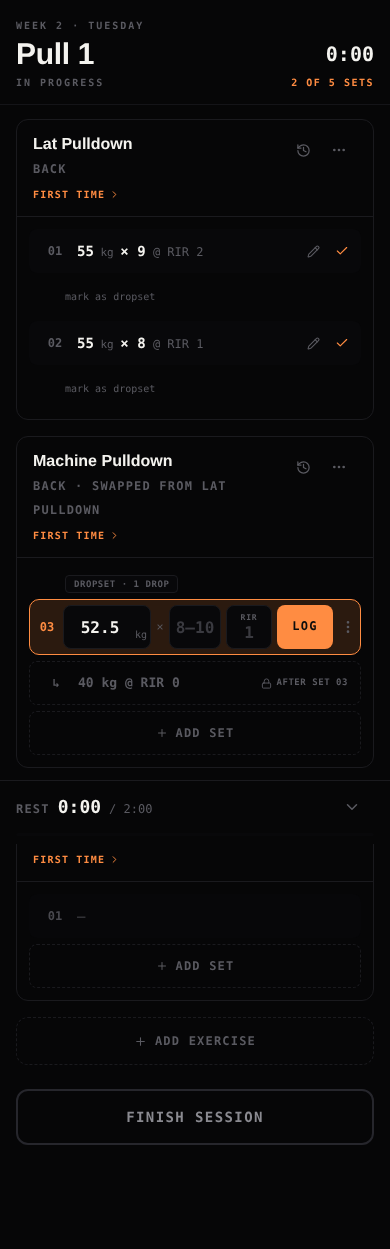
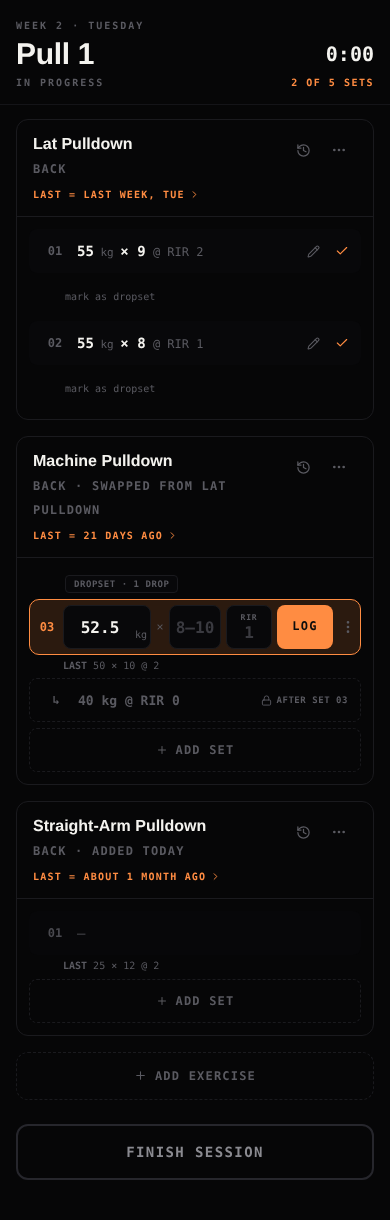
chunk 59 complete: W5 now draws each card's own last-time line as the board does (the swapped card reads the new exercise's session), shot without the pinned rest bar
The W5 board test gives each of the three exercises a reference session, asserts the three LAST = lines and the moved set's own LAST row, and the picture and text
dump are re-shot (light and dark). Two more breaks (the swapped card reading the exercise it left; an added card reading none) fail that test.

Claude-Session: https://claude.ai/code/session_01PKrEwfdPH4RJeSSWYsK4MK

diff --git a/src/features/gym/__fixtures__/w5.html b/src/features/gym/__fixtures__/w5.html
@@ -1,1 +1,1 @@
-<div class="pb-6"><header style="padding: 18px 16px 14px; border-bottom-width: 1px; border-bottom-style: solid; border-bottom-color: var(--border-subtle); display: flex; justify-content: space-between; align-items: flex-end; gap: 12px;"><div class="min-w-0" style="display: flex; flex-direction: column; gap: 6px;"><span style="font-family: var(--font-mono); font-weight: 600; font-size: 10px; letter-spacing: 0.2em; color: var(--text-muted);">WEEK 2 · TUESDAY</span><h1 style="margin: 0px; font-family: var(--font-display); font-weight: 900; font-size: 30px; line-height: 1; letter-spacing: -0.01em; color: var(--text-primary); overflow-wrap: anywhere;">Pull 1</h1><span style="font-family: var(--font-mono); font-weight: 700; font-size: 10px; letter-spacing: 0.2em; color: var(--text-muted);">IN PROGRESS</span></div><div class="flex-shrink-0" style="display: flex; flex-direction: column; align-items: flex-end; gap: 6px;"><span data-workout-clock="true" style="font-family: var(--font-mono); font-weight: 700; font-size: 20px; font-variant-numeric: tabular-nums; color: var(--text-primary);">0:00</span><span data-workout-progress="true" style="font-family: var(--font-mono); font-weight: 600; font-size: 10px; letter-spacing: 0.15em; color: var(--accent);">2 OF 5 SETS</span></div></header><div style="height: 14px;"></div><div class="px-4 space-y-4"><div class="space-y-4"><div class="rounded-xl overflow-hidden" style="border: 1px solid var(--border);"><div class="px-4 pt-3 pb-2 flex items-start justify-between" style="border-bottom: 1px solid var(--border);"><div><div class="flex items-baseline gap-2"><span class="font-black text-base" style="color: var(--text-primary); font-family: var(--font-display);">Lat Pulldown</span></div><span class="text-xs font-bold tracking-widest" style="color: var(--text-muted); font-family: var(--font-mono);">BACK</span><button type="button" data-last-line="true" class="flex items-center gap-1 text-left" style="min-height: 28px; font-family: var(--font-mono); font-weight: 600; font-size: 10px; letter-spacing: 0.12em; color: var(--accent); overflow-wrap: anywhere;">FIRST TIME<svg xmlns="http://www.w3.org/2000/svg" width="11" height="11" viewBox="0 0 24 24" fill="none" stroke="currentColor" stroke-width="2" stroke-linecap="round" stroke-linejoin="round" class="lucide lucide-chevron-right flex-shrink-0" aria-hidden="true"><path d="m9 18 6-6-6-6"></path></svg></button></div><div class="flex-shrink-0 flex items-center"><button aria-label="Exercise history" class="flex items-center justify-center" style="width: 36px; height: 36px; color: var(--text-muted);"><svg xmlns="http://www.w3.org/2000/svg" width="15" height="15" viewBox="0 0 24 24" fill="none" stroke="currentColor" stroke-width="2" stroke-linecap="round" stroke-linejoin="round" class="lucide lucide-history"><path d="M3 12a9 9 0 1 0 9-9 9.75 9.75 0 0 0-6.74 2.74L3 8"></path><path d="M3 3v5h5"></path><path d="M12 7v5l4 2"></path></svg></button><button aria-label="Exercise options" aria-haspopup="dialog" class="flex items-center justify-center" style="width: 36px; height: 36px; color: var(--text-muted);"><svg xmlns="http://www.w3.org/2000/svg" width="16" height="16" viewBox="0 0 24 24" fill="none" stroke="currentColor" stroke-width="2" stroke-linecap="round" stroke-linejoin="round" class="lucide lucide-ellipsis"><circle cx="12" cy="12" r="1"></circle><circle cx="19" cy="12" r="1"></circle><circle cx="5" cy="12" r="1"></circle></svg></button></div></div><div class="px-3 py-3 space-y-1.5"><div style="display: flex; align-items: center; gap: 8px; min-height: 44px; padding: 0px 12px; border-radius: 8px; background-color: var(--surface);" data-row-key="set:set-1" data-row-state="logged"><span class="text-xs font-bold text-center flex-shrink-0" style="width: 28px; color: var(--text-muted); font-family: var(--font-mono);">01</span><span class="flex-1 text-sm font-bold" style="color: var(--text-primary); font-family: var(--font-mono);">55<span style="color: var(--text-muted); font-weight: 400; font-size: 11px;"> kg </span>× 9<span style="color: var(--text-muted); font-weight: 400; font-size: 12px;"> @ RIR 2</span></span><button type="button" class="flex-shrink-0 flex items-center justify-center" style="width: 28px; height: 28px; color: var(--text-muted);" aria-label="Edit set"><svg xmlns="http://www.w3.org/2000/svg" width="13" height="13" viewBox="0 0 24 24" fill="none" stroke="currentColor" stroke-width="2" stroke-linecap="round" stroke-linejoin="round" class="lucide lucide-pencil"><path d="M21.174 6.812a1 1 0 0 0-3.986-3.987L3.842 16.174a2 2 0 0 0-.5.83l-1.321 4.352a.5.5 0 0 0 .623.622l4.353-1.32a2 2 0 0 0 .83-.497z"></path><path d="m15 5 4 4"></path></svg></button><svg xmlns="http://www.w3.org/2000/svg" width="14" height="14" viewBox="0 0 24 24" fill="none" stroke="currentColor" stroke-width="2" stroke-linecap="round" stroke-linejoin="round" class="lucide lucide-check" style="color: var(--accent);"><path d="M20 6 9 17l-5-5"></path></svg></div><button type="button" class="flex items-center text-xs font-medium" style="min-height: 36px; margin-left: 36px; color: var(--text-muted); font-family: var(--font-mono); font-size: 10px;">mark as dropset</button><div style="display: flex; align-items: center; gap: 8px; min-height: 44px; padding: 0px 12px; border-radius: 8px; background-color: var(--surface);" data-row-key="set:set-2" data-row-state="logged"><span class="text-xs font-bold text-center flex-shrink-0" style="width: 28px; color: var(--text-muted); font-family: var(--font-mono);">02</span><span class="flex-1 text-sm font-bold" style="color: var(--text-primary); font-family: var(--font-mono);">55<span style="color: var(--text-muted); font-weight: 400; font-size: 11px;"> kg </span>× 8<span style="color: var(--text-muted); font-weight: 400; font-size: 12px;"> @ RIR 1</span></span><button type="button" class="flex-shrink-0 flex items-center justify-center" style="width: 28px; height: 28px; color: var(--text-muted);" aria-label="Edit set"><svg xmlns="http://www.w3.org/2000/svg" width="13" height="13" viewBox="0 0 24 24" fill="none" stroke="currentColor" stroke-width="2" stroke-linecap="round" stroke-linejoin="round" class="lucide lucide-pencil"><path d="M21.174 6.812a1 1 0 0 0-3.986-3.987L3.842 16.174a2 2 0 0 0-.5.83l-1.321 4.352a.5.5 0 0 0 .623.622l4.353-1.32a2 2 0 0 0 .83-.497z"></path><path d="m15 5 4 4"></path></svg></button><svg xmlns="http://www.w3.org/2000/svg" width="14" height="14" viewBox="0 0 24 24" fill="none" stroke="currentColor" stroke-width="2" stroke-linecap="round" stroke-linejoin="round" class="lucide lucide-check" style="color: var(--accent);"><path d="M20 6 9 17l-5-5"></path></svg></div><button type="button" class="flex items-center text-xs font-medium" style="min-height: 36px; margin-left: 36px; color: var(--text-muted); font-family: var(--font-mono); font-size: 10px;">mark as dropset</button></div></div><div class="rounded-xl overflow-hidden" style="border: 1px solid var(--border);"><div class="px-4 pt-3 pb-2 flex items-start justify-between" style="border-bottom: 1px solid var(--border);"><div><div class="flex items-baseline gap-2"><span class="font-black text-base" style="color: var(--text-primary); font-family: var(--font-display);">Machine Pulldown</span></div><span class="text-xs font-bold tracking-widest" style="color: var(--text-muted); font-family: var(--font-mono);">BACK · SWAPPED FROM LAT PULLDOWN</span><button type="button" data-last-line="true" class="flex items-center gap-1 text-left" style="min-height: 28px; font-family: var(--font-mono); font-weight: 600; font-size: 10px; letter-spacing: 0.12em; color: var(--accent); overflow-wrap: anywhere;">FIRST TIME<svg xmlns="http://www.w3.org/2000/svg" width="11" height="11" viewBox="0 0 24 24" fill="none" stroke="currentColor" stroke-width="2" stroke-linecap="round" stroke-linejoin="round" class="lucide lucide-chevron-right flex-shrink-0" aria-hidden="true"><path d="m9 18 6-6-6-6"></path></svg></button></div><div class="flex-shrink-0 flex items-center"><button aria-label="Exercise history" class="flex items-center justify-center" style="width: 36px; height: 36px; color: var(--text-muted);"><svg xmlns="http://www.w3.org/2000/svg" width="15" height="15" viewBox="0 0 24 24" fill="none" stroke="currentColor" stroke-width="2" stroke-linecap="round" stroke-linejoin="round" class="lucide lucide-history"><path d="M3 12a9 9 0 1 0 9-9 9.75 9.75 0 0 0-6.74 2.74L3 8"></path><path d="M3 3v5h5"></path><path d="M12 7v5l4 2"></path></svg></button><button aria-label="Exercise options" aria-haspopup="dialog" class="flex items-center justify-center" style="width: 36px; height: 36px; color: var(--text-muted);"><svg xmlns="http://www.w3.org/2000/svg" width="16" height="16" viewBox="0 0 24 24" fill="none" stroke="currentColor" stroke-width="2" stroke-linecap="round" stroke-linejoin="round" class="lucide lucide-ellipsis"><circle cx="12" cy="12" r="1"></circle><circle cx="19" cy="12" r="1"></circle><circle cx="5" cy="12" r="1"></circle></svg></button></div></div><div class="px-3 py-3 space-y-1.5"><span class="inline-block text-xs font-bold px-2 py-0.5 rounded" style="margin-left: 36px; background-color: var(--surface); border: 1px solid var(--border); color: var(--text-muted); font-family: var(--font-mono); font-size: 9px; letter-spacing: 0.06em;">DROPSET · 1 DROP</span><div class="space-y-1" data-current-set="true" data-row-key="added:pe-1:replacement:65b4eadb-3e57-4813-963a-60c46827ecda"><div class="flex items-center" style="gap: 5px; padding: 5px 2px 5px 6px; border-radius: 10px; background-color: var(--accent-muted); border-width: 1px; border-style: solid; border-color: var(--accent);"><span class="text-xs font-bold text-center flex-shrink-0" style="width: 22px; color: var(--accent); font-family: var(--font-mono);">03</span><div class="relative" style="flex: 1 1 76px; min-width: 60px;"><input inputmode="decimal" aria-label="Weight" class="w-full" style="height: 44px; background-color: var(--surface); color: var(--text-primary); border-width: 1px; border-style: solid; border-color: var(--border); border-radius: 8px; font-family: var(--font-mono); font-weight: 700; font-size: 16px; text-align: center; padding-left: 6px; padding-right: 20px;" type="text" value="52.5"><button type="button" class="absolute text-xs" style="right: 4px; bottom: 8px; color: var(--text-muted); font-family: var(--font-mono); font-weight: 400; font-size: 10px;" aria-label="Log this set in lbs">kg</button></div><span class="flex-shrink-0 text-center" style="width: 8px; color: var(--text-muted); font-size: 12px;">×</span><input inputmode="numeric" aria-label="Reps" placeholder="8–10" style="height: 44px; background-color: var(--surface); color: var(--text-primary); border-width: 1px; border-style: solid; border-color: var(--border); border-radius: 8px; font-family: var(--font-mono); font-weight: 700; font-size: 16px; text-align: center; width: 52px; flex-shrink: 0;" type="text" value=""><label class="flex flex-col items-center justify-center flex-shrink-0" style="height: 44px; background-color: var(--surface); color: var(--text-primary); border-width: 1px; border-style: solid; border-color: var(--border); border-radius: 8px; font-family: var(--font-mono); font-weight: 700; font-size: 14px; text-align: center; width: 46px; padding-top: 3px;"><span style="font-size: 8px; letter-spacing: 0.1em; color: var(--text-muted); line-height: 1;">RIR</span><input inputmode="numeric" aria-label="RIR" placeholder="1" class="w-full" style="background: transparent; border: medium; text-align: center; font-family: var(--font-mono); font-weight: 700; font-size: 16px; color: var(--text-primary); height: 22px; padding: 0px;" type="text" value=""></label><button type="button" class="rounded-lg font-black text-sm whitespace-nowrap" style="flex: 0 0 auto; height: 44px; padding: 0px 8px; min-width: 56px; background-color: var(--accent); color: var(--on-accent); font-family: var(--font-mono); font-size: 12px; letter-spacing: 0.1em;">LOG</button><button type="button" class="flex-shrink-0 flex items-center justify-center" style="width: 20px; height: 44px; color: var(--text-muted);" aria-label="Set options" aria-expanded="false"><svg xmlns="http://www.w3.org/2000/svg" width="16" height="16" viewBox="0 0 24 24" fill="none" stroke="currentColor" stroke-width="2" stroke-linecap="round" stroke-linejoin="round" class="lucide lucide-ellipsis-vertical"><circle cx="12" cy="12" r="1"></circle><circle cx="12" cy="5" r="1"></circle><circle cx="12" cy="19" r="1"></circle></svg></button></div></div><div style="display: flex; align-items: center; gap: 8px; min-height: 44px; padding: 0px 12px; border-radius: 8px; border-width: 1px; border-style: dashed; border-color: var(--border);" data-row-key="added:pe-1:replacement:65b4eadb-3e57-4813-963a-60c46827ecda:stage:1" data-row-state="locked"><span class="text-xs font-bold text-center flex-shrink-0" style="width: 28px; color: var(--text-muted); font-family: var(--font-mono);">↳</span><span class="flex-1 font-bold" style="min-width: 0px; color: var(--text-muted); font-family: var(--font-mono); font-size: 13px;">40 kg @ RIR 0</span><span class="flex items-center gap-1 flex-shrink-0 font-bold whitespace-nowrap" style="color: var(--text-muted); font-family: var(--font-mono); font-size: 9px; letter-spacing: 0.06em;"><svg xmlns="http://www.w3.org/2000/svg" width="11" height="11" viewBox="0 0 24 24" fill="none" stroke="currentColor" stroke-width="2" stroke-linecap="round" stroke-linejoin="round" class="lucide lucide-lock"><rect width="18" height="11" x="3" y="11" rx="2" ry="2"></rect><path d="M7 11V7a5 5 0 0 1 10 0v4"></path></svg>AFTER SET 03</span></div><button class="w-full flex items-center justify-center gap-2 rounded-lg text-xs font-bold tracking-widest" style="min-height: 44px; border: 1px dashed var(--border); color: var(--text-muted); font-family: var(--font-mono);"><svg xmlns="http://www.w3.org/2000/svg" width="12" height="12" viewBox="0 0 24 24" fill="none" stroke="currentColor" stroke-width="2" stroke-linecap="round" stroke-linejoin="round" class="lucide lucide-plus"><path d="M5 12h14"></path><path d="M12 5v14"></path></svg>ADD SET</button></div></div></div><div class="rounded-xl overflow-hidden" style="border: 1px solid var(--border);"><div class="px-4 pt-3 pb-2 flex items-start justify-between" style="border-bottom: 1px solid var(--border);"><div><div class="flex items-baseline gap-2"><span class="font-black text-base" style="color: var(--text-primary); font-family: var(--font-display);">Straight-Arm Pulldown</span></div><span class="text-xs font-bold tracking-widest" style="color: var(--text-muted); font-family: var(--font-mono);">BACK · ADDED TODAY</span><button type="button" data-last-line="true" class="flex items-center gap-1 text-left" style="min-height: 28px; font-family: var(--font-mono); font-weight: 600; font-size: 10px; letter-spacing: 0.12em; color: var(--accent); overflow-wrap: anywhere;">FIRST TIME<svg xmlns="http://www.w3.org/2000/svg" width="11" height="11" viewBox="0 0 24 24" fill="none" stroke="currentColor" stroke-width="2" stroke-linecap="round" stroke-linejoin="round" class="lucide lucide-chevron-right flex-shrink-0" aria-hidden="true"><path d="m9 18 6-6-6-6"></path></svg></button></div><div class="flex-shrink-0 flex items-center"><button aria-label="Exercise history" class="flex items-center justify-center" style="width: 36px; height: 36px; color: var(--text-muted);"><svg xmlns="http://www.w3.org/2000/svg" width="15" height="15" viewBox="0 0 24 24" fill="none" stroke="currentColor" stroke-width="2" stroke-linecap="round" stroke-linejoin="round" class="lucide lucide-history"><path d="M3 12a9 9 0 1 0 9-9 9.75 9.75 0 0 0-6.74 2.74L3 8"></path><path d="M3 3v5h5"></path><path d="M12 7v5l4 2"></path></svg></button><button aria-label="Exercise options" aria-haspopup="dialog" class="flex items-center justify-center" style="width: 36px; height: 36px; color: var(--text-muted);"><svg xmlns="http://www.w3.org/2000/svg" width="16" height="16" viewBox="0 0 24 24" fill="none" stroke="currentColor" stroke-width="2" stroke-linecap="round" stroke-linejoin="round" class="lucide lucide-ellipsis"><circle cx="12" cy="12" r="1"></circle><circle cx="19" cy="12" r="1"></circle><circle cx="5" cy="12" r="1"></circle></svg></button></div></div><div class="px-3 py-3 space-y-1.5"><div class="space-y-1" data-row-key="added:extra-ex-straight:3c4e5071-d0af-4e3f-b7eb-1fc4defd55a3" data-row-state="upcoming"><div style="display: flex; align-items: center; gap: 8px; min-height: 44px; padding: 0px 12px; border-radius: 8px; background-color: var(--surface); opacity: 0.8;"><span class="text-xs font-bold text-center flex-shrink-0" style="width: 28px; color: var(--text-muted); font-family: var(--font-mono);">01</span><span class="flex-1 text-sm" style="color: var(--text-muted); font-family: var(--font-mono);">—</span></div></div><button class="w-full flex items-center justify-center gap-2 rounded-lg text-xs font-bold tracking-widest" style="min-height: 44px; border: 1px dashed var(--border); color: var(--text-muted); font-family: var(--font-mono);"><svg xmlns="http://www.w3.org/2000/svg" width="12" height="12" viewBox="0 0 24 24" fill="none" stroke="currentColor" stroke-width="2" stroke-linecap="round" stroke-linejoin="round" class="lucide lucide-plus"><path d="M5 12h14"></path><path d="M12 5v14"></path></svg>ADD SET</button></div></div></div><div class="px-4 mt-4"><button class="w-full flex items-center justify-center gap-2 rounded-xl text-xs font-bold tracking-widest" style="min-height: 48px; border: 1px dashed var(--border); color: var(--text-muted); font-family: var(--font-mono);"><svg xmlns="http://www.w3.org/2000/svg" width="13" height="13" viewBox="0 0 24 24" fill="none" stroke="currentColor" stroke-width="2" stroke-linecap="round" stroke-linejoin="round" class="lucide lucide-plus"><path d="M5 12h14"></path><path d="M12 5v14"></path></svg>ADD EXERCISE</button></div><div class="px-4 mt-6 mb-4"><button class="w-full py-4 rounded-xl font-black tracking-widest text-sm" style="border: 2px solid var(--border-strong); color: var(--text-secondary); font-family: var(--font-mono);">FINISH SESSION</button></div><div data-rest-bar="true" class="sticky bottom-0" style="z-index: 20; background-color: var(--base); border-top: 1px solid var(--border); padding-bottom: 2px;"><div class="flex items-center gap-3 px-4" style="min-height: 52px;"><div class="flex items-baseline gap-2 min-w-0"><span class="text-xs font-bold tracking-widest" style="color: var(--text-muted); font-family: var(--font-mono);">REST</span><span class="text-lg font-black tabular-nums" style="color: var(--text-primary); font-family: var(--font-mono);">0:00</span><span class="text-xs tabular-nums" style="color: var(--text-muted); font-family: var(--font-mono);">/ 2:00</span></div><div class="flex-1"></div><button type="button" class="flex items-center justify-center" style="min-width: 44px; min-height: 44px; color: var(--text-muted);" aria-label="Hide rest timer" aria-expanded="true"><svg xmlns="http://www.w3.org/2000/svg" width="18" height="18" viewBox="0 0 24 24" fill="none" stroke="currentColor" stroke-width="2" stroke-linecap="round" stroke-linejoin="round" class="lucide lucide-chevron-down"><path d="m6 9 6 6 6-6"></path></svg></button></div><div style="height: 3px; margin: 0px 16px 6px; border-radius: 2px; background-color: var(--surface);"><div class="transition-all duration-1000" style="height: 3px; border-radius: 2px; width: 0%; background-color: var(--accent);"></div></div></div></div>
+<div class="pb-6"><header style="padding: 18px 16px 14px; border-bottom-width: 1px; border-bottom-style: solid; border-bottom-color: var(--border-subtle); display: flex; justify-content: space-between; align-items: flex-end; gap: 12px;"><div class="min-w-0" style="display: flex; flex-direction: column; gap: 6px;"><span style="font-family: var(--font-mono); font-weight: 600; font-size: 10px; letter-spacing: 0.2em; color: var(--text-muted);">WEEK 2 · TUESDAY</span><h1 style="margin: 0px; font-family: var(--font-display); font-weight: 900; font-size: 30px; line-height: 1; letter-spacing: -0.01em; color: var(--text-primary); overflow-wrap: anywhere;">Pull 1</h1><span style="font-family: var(--font-mono); font-weight: 700; font-size: 10px; letter-spacing: 0.2em; color: var(--text-muted);">IN PROGRESS</span></div><div class="flex-shrink-0" style="display: flex; flex-direction: column; align-items: flex-end; gap: 6px;"><span data-workout-clock="true" style="font-family: var(--font-mono); font-weight: 700; font-size: 20px; font-variant-numeric: tabular-nums; color: var(--text-primary);">0:00</span><span data-workout-progress="true" style="font-family: var(--font-mono); font-weight: 600; font-size: 10px; letter-spacing: 0.15em; color: var(--accent);">2 OF 5 SETS</span></div></header><div style="height: 14px;"></div><div class="px-4 space-y-4"><div class="space-y-4"><div class="rounded-xl overflow-hidden" style="border: 1px solid var(--border);"><div class="px-4 pt-3 pb-2 flex items-start justify-between" style="border-bottom: 1px solid var(--border);"><div><div class="flex items-baseline gap-2"><span class="font-black text-base" style="color: var(--text-primary); font-family: var(--font-display);">Lat Pulldown</span></div><span class="text-xs font-bold tracking-widest" style="color: var(--text-muted); font-family: var(--font-mono);">BACK</span><button type="button" data-last-line="true" class="flex items-center gap-1 text-left" style="min-height: 28px; font-family: var(--font-mono); font-weight: 600; font-size: 10px; letter-spacing: 0.12em; color: var(--accent); overflow-wrap: anywhere;">LAST = LAST WEEK, TUE<svg xmlns="http://www.w3.org/2000/svg" width="11" height="11" viewBox="0 0 24 24" fill="none" stroke="currentColor" stroke-width="2" stroke-linecap="round" stroke-linejoin="round" class="lucide lucide-chevron-right flex-shrink-0" aria-hidden="true"><path d="m9 18 6-6-6-6"></path></svg></button></div><div class="flex-shrink-0 flex items-center"><button aria-label="Exercise history" class="flex items-center justify-center" style="width: 36px; height: 36px; color: var(--text-muted);"><svg xmlns="http://www.w3.org/2000/svg" width="15" height="15" viewBox="0 0 24 24" fill="none" stroke="currentColor" stroke-width="2" stroke-linecap="round" stroke-linejoin="round" class="lucide lucide-history"><path d="M3 12a9 9 0 1 0 9-9 9.75 9.75 0 0 0-6.74 2.74L3 8"></path><path d="M3 3v5h5"></path><path d="M12 7v5l4 2"></path></svg></button><button aria-label="Exercise options" aria-haspopup="dialog" class="flex items-center justify-center" style="width: 36px; height: 36px; color: var(--text-muted);"><svg xmlns="http://www.w3.org/2000/svg" width="16" height="16" viewBox="0 0 24 24" fill="none" stroke="currentColor" stroke-width="2" stroke-linecap="round" stroke-linejoin="round" class="lucide lucide-ellipsis"><circle cx="12" cy="12" r="1"></circle><circle cx="19" cy="12" r="1"></circle><circle cx="5" cy="12" r="1"></circle></svg></button></div></div><div class="px-3 py-3 space-y-1.5"><div style="display: flex; align-items: center; gap: 8px; min-height: 44px; padding: 0px 12px; border-radius: 8px; background-color: var(--surface);" data-row-key="set:set-1" data-row-state="logged"><span class="text-xs font-bold text-center flex-shrink-0" style="width: 28px; color: var(--text-muted); font-family: var(--font-mono);">01</span><span class="flex-1 text-sm font-bold" style="color: var(--text-primary); font-family: var(--font-mono);">55<span style="color: var(--text-muted); font-weight: 400; font-size: 11px;"> kg </span>× 9<span style="color: var(--text-muted); font-weight: 400; font-size: 12px;"> @ RIR 2</span></span><button type="button" class="flex-shrink-0 flex items-center justify-center" style="width: 28px; height: 28px; color: var(--text-muted);" aria-label="Edit set"><svg xmlns="http://www.w3.org/2000/svg" width="13" height="13" viewBox="0 0 24 24" fill="none" stroke="currentColor" stroke-width="2" stroke-linecap="round" stroke-linejoin="round" class="lucide lucide-pencil"><path d="M21.174 6.812a1 1 0 0 0-3.986-3.987L3.842 16.174a2 2 0 0 0-.5.83l-1.321 4.352a.5.5 0 0 0 .623.622l4.353-1.32a2 2 0 0 0 .83-.497z"></path><path d="m15 5 4 4"></path></svg></button><svg xmlns="http://www.w3.org/2000/svg" width="14" height="14" viewBox="0 0 24 24" fill="none" stroke="currentColor" stroke-width="2" stroke-linecap="round" stroke-linejoin="round" class="lucide lucide-check" style="color: var(--accent);"><path d="M20 6 9 17l-5-5"></path></svg></div><button type="button" class="flex items-center text-xs font-medium" style="min-height: 36px; margin-left: 36px; color: var(--text-muted); font-family: var(--font-mono); font-size: 10px;">mark as dropset</button><div style="display: flex; align-items: center; gap: 8px; min-height: 44px; padding: 0px 12px; border-radius: 8px; background-color: var(--surface);" data-row-key="set:set-2" data-row-state="logged"><span class="text-xs font-bold text-center flex-shrink-0" style="width: 28px; color: var(--text-muted); font-family: var(--font-mono);">02</span><span class="flex-1 text-sm font-bold" style="color: var(--text-primary); font-family: var(--font-mono);">55<span style="color: var(--text-muted); font-weight: 400; font-size: 11px;"> kg </span>× 8<span style="color: var(--text-muted); font-weight: 400; font-size: 12px;"> @ RIR 1</span></span><button type="button" class="flex-shrink-0 flex items-center justify-center" style="width: 28px; height: 28px; color: var(--text-muted);" aria-label="Edit set"><svg xmlns="http://www.w3.org/2000/svg" width="13" height="13" viewBox="0 0 24 24" fill="none" stroke="currentColor" stroke-width="2" stroke-linecap="round" stroke-linejoin="round" class="lucide lucide-pencil"><path d="M21.174 6.812a1 1 0 0 0-3.986-3.987L3.842 16.174a2 2 0 0 0-.5.83l-1.321 4.352a.5.5 0 0 0 .623.622l4.353-1.32a2 2 0 0 0 .83-.497z"></path><path d="m15 5 4 4"></path></svg></button><svg xmlns="http://www.w3.org/2000/svg" width="14" height="14" viewBox="0 0 24 24" fill="none" stroke="currentColor" stroke-width="2" stroke-linecap="round" stroke-linejoin="round" class="lucide lucide-check" style="color: var(--accent);"><path d="M20 6 9 17l-5-5"></path></svg></div><button type="button" class="flex items-center text-xs font-medium" style="min-height: 36px; margin-left: 36px; color: var(--text-muted); font-family: var(--font-mono); font-size: 10px;">mark as dropset</button></div></div><div class="rounded-xl overflow-hidden" style="border: 1px solid var(--border);"><div class="px-4 pt-3 pb-2 flex items-start justify-between" style="border-bottom: 1px solid var(--border);"><div><div class="flex items-baseline gap-2"><span class="font-black text-base" style="color: var(--text-primary); font-family: var(--font-display);">Machine Pulldown</span></div><span class="text-xs font-bold tracking-widest" style="color: var(--text-muted); font-family: var(--font-mono);">BACK · SWAPPED FROM LAT PULLDOWN</span><button type="button" data-last-line="true" class="flex items-center gap-1 text-left" style="min-height: 28px; font-family: var(--font-mono); font-weight: 600; font-size: 10px; letter-spacing: 0.12em; color: var(--accent); overflow-wrap: anywhere;">LAST = 21 DAYS AGO<svg xmlns="http://www.w3.org/2000/svg" width="11" height="11" viewBox="0 0 24 24" fill="none" stroke="currentColor" stroke-width="2" stroke-linecap="round" stroke-linejoin="round" class="lucide lucide-chevron-right flex-shrink-0" aria-hidden="true"><path d="m9 18 6-6-6-6"></path></svg></button></div><div class="flex-shrink-0 flex items-center"><button aria-label="Exercise history" class="flex items-center justify-center" style="width: 36px; height: 36px; color: var(--text-muted);"><svg xmlns="http://www.w3.org/2000/svg" width="15" height="15" viewBox="0 0 24 24" fill="none" stroke="currentColor" stroke-width="2" stroke-linecap="round" stroke-linejoin="round" class="lucide lucide-history"><path d="M3 12a9 9 0 1 0 9-9 9.75 9.75 0 0 0-6.74 2.74L3 8"></path><path d="M3 3v5h5"></path><path d="M12 7v5l4 2"></path></svg></button><button aria-label="Exercise options" aria-haspopup="dialog" class="flex items-center justify-center" style="width: 36px; height: 36px; color: var(--text-muted);"><svg xmlns="http://www.w3.org/2000/svg" width="16" height="16" viewBox="0 0 24 24" fill="none" stroke="currentColor" stroke-width="2" stroke-linecap="round" stroke-linejoin="round" class="lucide lucide-ellipsis"><circle cx="12" cy="12" r="1"></circle><circle cx="19" cy="12" r="1"></circle><circle cx="5" cy="12" r="1"></circle></svg></button></div></div><div class="px-3 py-3 space-y-1.5"><span class="inline-block text-xs font-bold px-2 py-0.5 rounded" style="margin-left: 36px; background-color: var(--surface); border: 1px solid var(--border); color: var(--text-muted); font-family: var(--font-mono); font-size: 9px; letter-spacing: 0.06em;">DROPSET · 1 DROP</span><div class="space-y-1" data-current-set="true" data-row-key="added:pe-1:replacement:4462dca2-fa9b-4cdc-9849-ea7fe832698e"><div class="flex items-center" style="gap: 5px; padding: 5px 2px 5px 6px; border-radius: 10px; background-color: var(--accent-muted); border-width: 1px; border-style: solid; border-color: var(--accent);"><span class="text-xs font-bold text-center flex-shrink-0" style="width: 22px; color: var(--accent); font-family: var(--font-mono);">03</span><div class="relative" style="flex: 1 1 76px; min-width: 60px;"><input inputmode="decimal" aria-label="Weight" class="w-full" style="height: 44px; background-color: var(--surface); color: var(--text-primary); border-width: 1px; border-style: solid; border-color: var(--border); border-radius: 8px; font-family: var(--font-mono); font-weight: 700; font-size: 16px; text-align: center; padding-left: 6px; padding-right: 20px;" type="text" value="52.5"><button type="button" class="absolute text-xs" style="right: 4px; bottom: 8px; color: var(--text-muted); font-family: var(--font-mono); font-weight: 400; font-size: 10px;" aria-label="Log this set in lbs">kg</button></div><span class="flex-shrink-0 text-center" style="width: 8px; color: var(--text-muted); font-size: 12px;">×</span><input inputmode="numeric" aria-label="Reps" placeholder="8–10" style="height: 44px; background-color: var(--surface); color: var(--text-primary); border-width: 1px; border-style: solid; border-color: var(--border); border-radius: 8px; font-family: var(--font-mono); font-weight: 700; font-size: 16px; text-align: center; width: 52px; flex-shrink: 0;" type="text" value=""><label class="flex flex-col items-center justify-center flex-shrink-0" style="height: 44px; background-color: var(--surface); color: var(--text-primary); border-width: 1px; border-style: solid; border-color: var(--border); border-radius: 8px; font-family: var(--font-mono); font-weight: 700; font-size: 14px; text-align: center; width: 46px; padding-top: 3px;"><span style="font-size: 8px; letter-spacing: 0.1em; color: var(--text-muted); line-height: 1;">RIR</span><input inputmode="numeric" aria-label="RIR" placeholder="1" class="w-full" style="background: transparent; border: medium; text-align: center; font-family: var(--font-mono); font-weight: 700; font-size: 16px; color: var(--text-primary); height: 22px; padding: 0px;" type="text" value=""></label><button type="button" class="rounded-lg font-black text-sm whitespace-nowrap" style="flex: 0 0 auto; height: 44px; padding: 0px 8px; min-width: 56px; background-color: var(--accent); color: var(--on-accent); font-family: var(--font-mono); font-size: 12px; letter-spacing: 0.1em;">LOG</button><button type="button" class="flex-shrink-0 flex items-center justify-center" style="width: 20px; height: 44px; color: var(--text-muted);" aria-label="Set options" aria-expanded="false"><svg xmlns="http://www.w3.org/2000/svg" width="16" height="16" viewBox="0 0 24 24" fill="none" stroke="currentColor" stroke-width="2" stroke-linecap="round" stroke-linejoin="round" class="lucide lucide-ellipsis-vertical"><circle cx="12" cy="12" r="1"></circle><circle cx="12" cy="5" r="1"></circle><circle cx="12" cy="19" r="1"></circle></svg></button></div><p class="text-xs" style="padding-left: 34px; color: var(--text-muted); font-family: var(--font-mono); font-size: 10px;"><span style="font-weight: 700;">LAST</span> 50 × 10 @ 2</p></div><div style="display: flex; align-items: center; gap: 8px; min-height: 44px; padding: 0px 12px; border-radius: 8px; border-width: 1px; border-style: dashed; border-color: var(--border);" data-row-key="added:pe-1:replacement:4462dca2-fa9b-4cdc-9849-ea7fe832698e:stage:1" data-row-state="locked"><span class="text-xs font-bold text-center flex-shrink-0" style="width: 28px; color: var(--text-muted); font-family: var(--font-mono);">↳</span><span class="flex-1 font-bold" style="min-width: 0px; color: var(--text-muted); font-family: var(--font-mono); font-size: 13px;">40 kg @ RIR 0</span><span class="flex items-center gap-1 flex-shrink-0 font-bold whitespace-nowrap" style="color: var(--text-muted); font-family: var(--font-mono); font-size: 9px; letter-spacing: 0.06em;"><svg xmlns="http://www.w3.org/2000/svg" width="11" height="11" viewBox="0 0 24 24" fill="none" stroke="currentColor" stroke-width="2" stroke-linecap="round" stroke-linejoin="round" class="lucide lucide-lock"><rect width="18" height="11" x="3" y="11" rx="2" ry="2"></rect><path d="M7 11V7a5 5 0 0 1 10 0v4"></path></svg>AFTER SET 03</span></div><button class="w-full flex items-center justify-center gap-2 rounded-lg text-xs font-bold tracking-widest" style="min-height: 44px; border: 1px dashed var(--border); color: var(--text-muted); font-family: var(--font-mono);"><svg xmlns="http://www.w3.org/2000/svg" width="12" height="12" viewBox="0 0 24 24" fill="none" stroke="currentColor" stroke-width="2" stroke-linecap="round" stroke-linejoin="round" class="lucide lucide-plus"><path d="M5 12h14"></path><path d="M12 5v14"></path></svg>ADD SET</button></div></div></div><div class="rounded-xl overflow-hidden" style="border: 1px solid var(--border);"><div class="px-4 pt-3 pb-2 flex items-start justify-between" style="border-bottom: 1px solid var(--border);"><div><div class="flex items-baseline gap-2"><span class="font-black text-base" style="color: var(--text-primary); font-family: var(--font-display);">Straight-Arm Pulldown</span></div><span class="text-xs font-bold tracking-widest" style="color: var(--text-muted); font-family: var(--font-mono);">BACK · ADDED TODAY</span><button type="button" data-last-line="true" class="flex items-center gap-1 text-left" style="min-height: 28px; font-family: var(--font-mono); font-weight: 600; font-size: 10px; letter-spacing: 0.12em; color: var(--accent); overflow-wrap: anywhere;">LAST = ABOUT 1 MONTH AGO<svg xmlns="http://www.w3.org/2000/svg" width="11" height="11" viewBox="0 0 24 24" fill="none" stroke="currentColor" stroke-width="2" stroke-linecap="round" stroke-linejoin="round" class="lucide lucide-chevron-right flex-shrink-0" aria-hidden="true"><path d="m9 18 6-6-6-6"></path></svg></button></div><div class="flex-shrink-0 flex items-center"><button aria-label="Exercise history" class="flex items-center justify-center" style="width: 36px; height: 36px; color: var(--text-muted);"><svg xmlns="http://www.w3.org/2000/svg" width="15" height="15" viewBox="0 0 24 24" fill="none" stroke="currentColor" stroke-width="2" stroke-linecap="round" stroke-linejoin="round" class="lucide lucide-history"><path d="M3 12a9 9 0 1 0 9-9 9.75 9.75 0 0 0-6.74 2.74L3 8"></path><path d="M3 3v5h5"></path><path d="M12 7v5l4 2"></path></svg></button><button aria-label="Exercise options" aria-haspopup="dialog" class="flex items-center justify-center" style="width: 36px; height: 36px; color: var(--text-muted);"><svg xmlns="http://www.w3.org/2000/svg" width="16" height="16" viewBox="0 0 24 24" fill="none" stroke="currentColor" stroke-width="2" stroke-linecap="round" stroke-linejoin="round" class="lucide lucide-ellipsis"><circle cx="12" cy="12" r="1"></circle><circle cx="19" cy="12" r="1"></circle><circle cx="5" cy="12" r="1"></circle></svg></button></div></div><div class="px-3 py-3 space-y-1.5"><div class="space-y-1" data-row-key="added:extra-ex-straight:22d72771-cc86-4c0e-ab4c-e727b0299f89" data-row-state="upcoming"><div style="display: flex; align-items: center; gap: 8px; min-height: 44px; padding: 0px 12px; border-radius: 8px; background-color: var(--surface); opacity: 0.8;"><span class="text-xs font-bold text-center flex-shrink-0" style="width: 28px; color: var(--text-muted); font-family: var(--font-mono);">01</span><span class="flex-1 text-sm" style="color: var(--text-muted); font-family: var(--font-mono);">—</span></div><p class="text-xs" style="padding-left: 34px; color: var(--text-muted); font-family: var(--font-mono); font-size: 10px;"><span style="font-weight: 700;">LAST</span> 25 × 12 @ 2</p></div><button class="w-full flex items-center justify-center gap-2 rounded-lg text-xs font-bold tracking-widest" style="min-height: 44px; border: 1px dashed var(--border); color: var(--text-muted); font-family: var(--font-mono);"><svg xmlns="http://www.w3.org/2000/svg" width="12" height="12" viewBox="0 0 24 24" fill="none" stroke="currentColor" stroke-width="2" stroke-linecap="round" stroke-linejoin="round" class="lucide lucide-plus"><path d="M5 12h14"></path><path d="M12 5v14"></path></svg>ADD SET</button></div></div></div><div class="px-4 mt-4"><button class="w-full flex items-center justify-center gap-2 rounded-xl text-xs font-bold tracking-widest" style="min-height: 48px; border: 1px dashed var(--border); color: var(--text-muted); font-family: var(--font-mono);"><svg xmlns="http://www.w3.org/2000/svg" width="13" height="13" viewBox="0 0 24 24" fill="none" stroke="currentColor" stroke-width="2" stroke-linecap="round" stroke-linejoin="round" class="lucide lucide-plus"><path d="M5 12h14"></path><path d="M12 5v14"></path></svg>ADD EXERCISE</button></div><div class="px-4 mt-6 mb-4"><button class="w-full py-4 rounded-xl font-black tracking-widest text-sm" style="border: 2px solid var(--border-strong); color: var(--text-secondary); font-family: var(--font-mono);">FINISH SESSION</button></div></div>

diff --git a/src/features/gym/GymSession.boards59.test.tsx b/src/features/gym/GymSession.boards59.test.tsx
@@ -8,7 +8,8 @@ import { render, cleanup, fireEvent, act, screen, within } from '@testing-librar
 import { MemoryRouter } from 'react-router-dom'
 import { QueryClientProvider } from '@tanstack/react-query'
 import { captureRender } from '../../testing/captureRender'
-import type { ExerciseSwap } from './sessionService'
+import { referenceSessionOf } from './cardHarness.testutil'
+import type { ExerciseSwap, ReferenceSession } from './sessionService'
 import type { Exercise, ProgramExercise, WeekPlan, WorkoutDay, Session, SetLog } from '../../types'
 
 afterEach(() => cleanup())
@@ -49,6 +50,7 @@ const weekPlan: WeekPlan = {
 
 let session: Session
 let sessionSwaps: ExerciseSwap[] = []
+let references = new Map<string, ReferenceSession[]>()
 const logOf = (over: Partial<SetLog> & { id: string }): SetLog => ({
   userId: 'user-1', sessionId: 'session-1', exerciseId: 'ex-lat', weekPlanSetId: null, setNumber: 1, weight: 55, reps: 9, rir: 2, note: null,
   isDropset: false, parentSetId: null, stageIndex: 0, isWarmup: false, setSeconds: null, enteredUnit: null, isSkipped: false,
@@ -102,7 +104,7 @@ vi.mock('./useSession', () => ({
   useLastSessionLogs: () => ({ data: [], isLoading: false }),
   useUpdateSetLog: () => ({ mutate: vi.fn() }),
   useDeleteSetLog: () => ({ mutateAsync: vi.fn() }),
-  useExerciseReferenceSessions: () => ({ data: new Map(), isLoading: false, isError: false, isFromCache: false, retry: vi.fn() }),
+  useExerciseReferenceSessions: () => ({ data: references, isLoading: false, isError: false, isFromCache: false, retry: vi.fn() }),
   useSessionSwaps: () => ({ data: sessionSwaps }),
   useRecordExerciseSwap: () => ({
     mutateAsync: async (params: { programExerciseId: string; originalExercise: Exercise; replacementExercise: Exercise; movedSets: ExerciseSwap['movedSets'] }) => {
@@ -146,6 +148,7 @@ beforeEach(() => {
     ],
   }
   sessionSwaps = []
+  references = new Map()
   useSettingsStore.setState({ ...DEFAULT_SETTINGS })
 })
 
@@ -200,6 +203,14 @@ describe('W11 and W14 — the swap and the add, at the workout screen\'s call si
 
 describe('W5 — swapped and added exercises', () => {
   it('Lat Pulldown keeps its two logged sets and no + ADD SET; Machine Pulldown, swapped from it, has set 03 (the dropset with its drop) and + ADD SET; Straight-Arm Pulldown, added today, has 01', async () => {
+    // Each card's "last time" is its own exercise's (board W5): the swapped card reads the new exercise's session, not the one it left.
+    const lastTime = (id: string, exerciseId: string, date: string, sets: Array<[number, number]>) =>
+      referenceSessionOf(id, date, sets.map(([weight, reps], i) => logOf({ id: `${id}-${i + 1}`, sessionId: id, exerciseId, setNumber: i + 1, weight, reps, rir: 2, loggedAt: `${date}T18:00:00Z` })))
+    references = new Map([
+      ['ex-lat', [lastTime('r-lat', 'ex-lat', '2026-10-06', [[55, 9], [55, 8]])]],
+      ['ex-machine', [lastTime('r-machine', 'ex-machine', '2026-09-22', [[45, 12], [47.5, 11], [50, 10]])]],
+      ['ex-straight', [lastTime('r-straight', 'ex-straight', '2026-09-08', [[25, 12]])]],
+    ])
     const { container, rerender } = render(jsx())
     await settle()
     await press(screen.getByLabelText('Exercise options'))
@@ -227,7 +238,15 @@ describe('W5 — swapped and added exercises', () => {
     expect((within(machine).getByLabelText('Reps') as HTMLInputElement).placeholder).toBe('8–10')
     expect(straight.textContent).toContain('BACK · ADDED TODAY')
     expect(Array.from(straight.querySelectorAll('[data-row-key]')).map((el) => el.querySelector('span')?.textContent)).toEqual(['01'])
-    captureRender('w5', container)
+    const lastLine = (card: HTMLElement) => card.querySelector('[data-last-line]')?.textContent
+    expect([lastLine(lat), lastLine(machine), lastLine(straight)]).toEqual(['LAST = LAST WEEK, TUE', 'LAST = 21 DAYS AGO', 'LAST = ABOUT 1 MONTH AGO'])
+    expect(machine.textContent).toContain('50 × 10 @ 2') // the moved set 03's own LAST line, from the new exercise's session
+    expect(straight.textContent).toContain('25 × 12 @ 2')
+    // Board W5 draws the cards alone: the pinned rest bar (sticky at the bottom, so a full-page shot of a screen taller than 844 px draws
+    // it over the third card's header) is left out of the capture.
+    const cardsOnly = container.cloneNode(true) as HTMLElement
+    cardsOnly.querySelector('[data-rest-bar]')?.remove()
+    captureRender('w5', cardsOnly)
   })
 })
 
